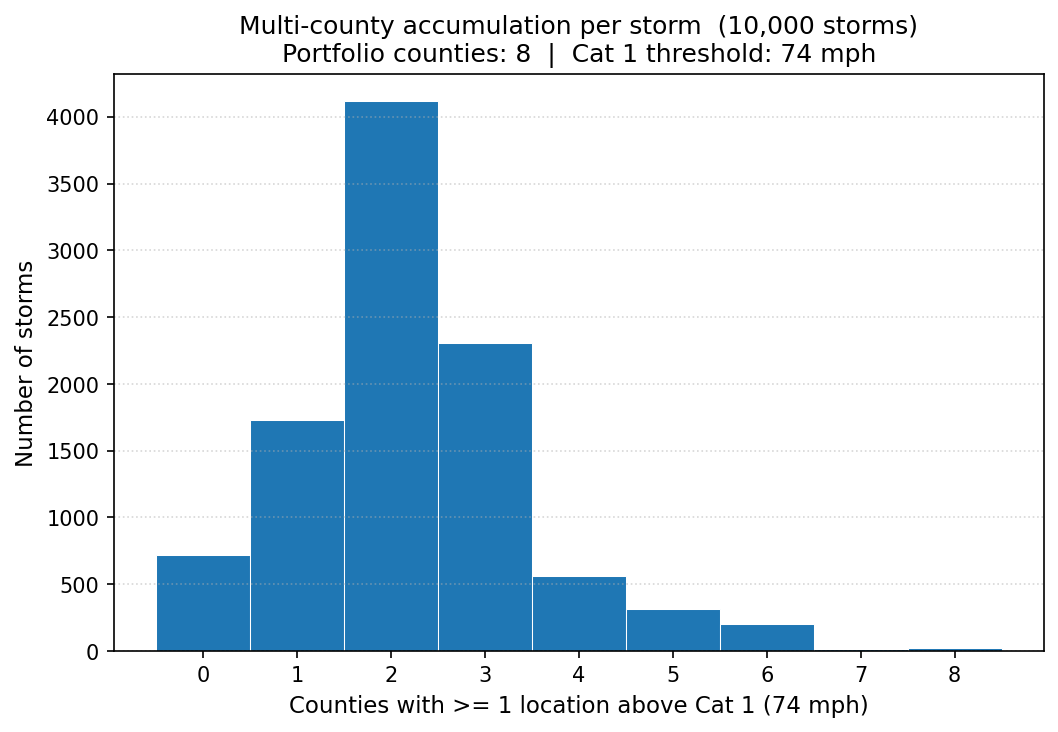
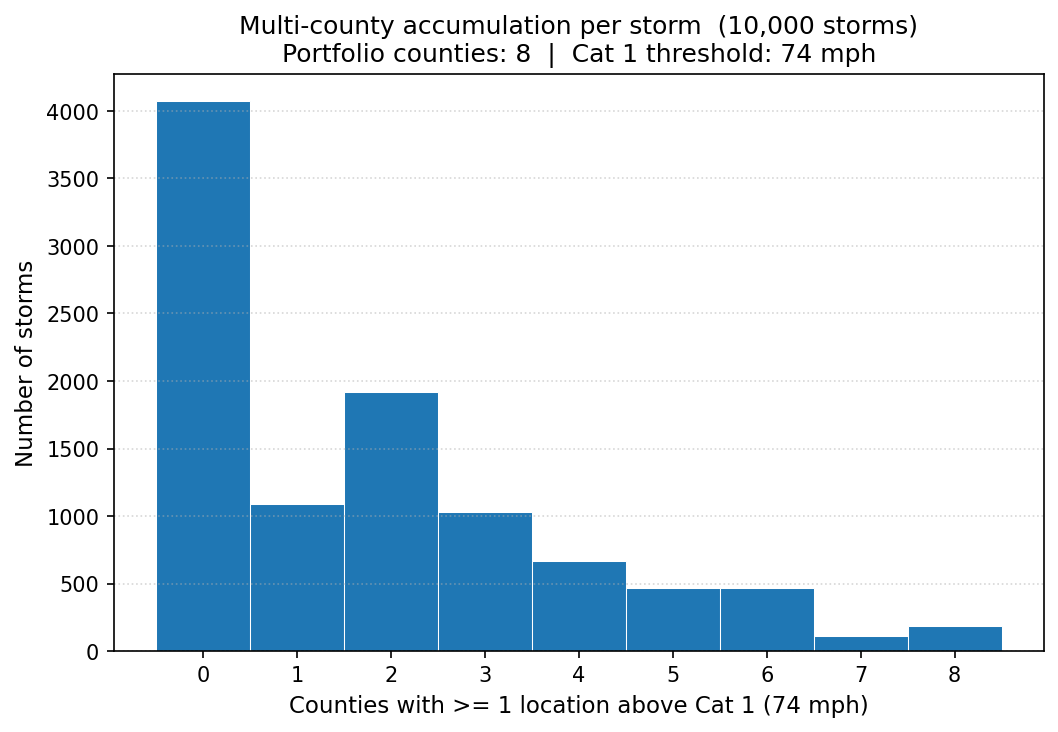
docs: update README to v3 (Phase 2 physics + attribution waterfall)

diff --git a/README.md b/README.md
@@ -4,7 +4,7 @@
 
 The model builds a book of 1,000 insured locations, simulates 100,000 years of stochastic hurricanes as moving wind footprints, translates wind to damage through construction-specific vulnerability curves, applies per-policy financial terms, and prices the effect of an excess-of-loss (XoL) reinsurance tower on the portfolio's tail — reporting the loss distribution **gross and net of reinsurance**.
 
-> **Note on scope.** A learning / portfolio project built to demonstrate the conceptual engine behind production catastrophe models (RMS, Verisk Touchstone, CoreLogic). The *method* follow the conceptual structure of a vendor-model pipeline — exposure, hazard, vulnerability, financial, and reinsurance — not just aggregate loss simulation. In v3, the hazard parameters (frequency, intensity, landfall geography, and storm track) are calibrated to NOAA HURDAT2; vulnerability and financial parameters remain illustrative pending later phases. See [Assumptions](#parameters-and-assumptions) and [Limitations](#limitations).
+> **Note on scope.** A learning / portfolio project built to demonstrate the conceptual engine behind production catastrophe models (RMS, Verisk Touchstone, CoreLogic). The *method* follow the conceptual structure of a vendor-model pipeline — exposure, hazard, vulnerability, financial, and reinsurance — not just aggregate loss simulation. In v3, the hazard is calibrated to NOAA HURDAT2 end-to-end — frequency, intensity, and landfall geography (Phase 1), plus a physical wind field of Holland profiles, intensity-dependent storm sizing, forward-motion asymmetry, and inland decay (Phase 2). Vulnerability and financial parameters remain illustrative pending later phases. See [Assumptions](#parameters-and-assumptions) and [Limitations](#limitations).
 
 ---
 
@@ -24,21 +24,21 @@ The model builds a book of 1,000 insured locations, simulates 100,000 years of s
 
 ## Headline results
 
-A synthetic but plausible book: **1,000 coastal locations, USD 500M total insured value (TIV)**, over 100,000 simulated years.
-
-*The table below reflects the frozen v2.0 model. For the recalibrated v3 numbers and why they changed, see the [Calibration: v2 → v3](#calibration-v2--v3) section.*
+A synthetic but plausible book: **1,000 coastal locations, USD 500M total insured value (TIV)**, over 100,000 simulated years, with a fully calibrated v3 hazard.
 
 | Metric (USD M) | AEP Gross | AEP Net | OEP Gross | OEP Net |
 |---|---:|---:|---:|---:|
-| Average Annual Loss | 10.67 | 9.37 | 9.57 | 8.30 |
-| PML 1-in-100 | 118.1 | 75.9 | 107.7 | 60.0 |
-| PML 1-in-250 | 149.4 | 94.3 | 133.7 | 60.0 |
+| Average Annual Loss | 9.17 | 7.72 | 8.49 | 7.05 |
+| PML 1-in-100 | 122.7 | 70.3 | 113.4 | 60.0 |
+| PML 1-in-250 | 158.7 | 90.8 | 147.1 | 60.0 |
 
 *AEP = Aggregate Exceedance Probability (full annual loss). OEP = Occurrence Exceedance Probability (largest single event of the year). Gross = before reinsurance; Net = after the XoL tower.*
 
-**What the reinsurance tower buys:** gross-to-net PML reduction of **-44.3% / -55.1%** on a per-occurrence basis (1-in-100 / 1-in-250), and **-35.8% / -36.9%** on an aggregate-annual basis.
+These are the **v3 numbers**: a hazard calibrated to HURDAT2 end-to-end — frequency, intensity, and landfall geography (Phase 1), and a physical wind field of Holland profiles, Vickery-Wadhera storm sizing, forward-motion asymmetry, and Kaplan-DeMaria inland decay (Phase 2). The AAL sits at **1.83% of TIV**, in the plausible range for a coastal Florida book. How the model evolved from its illustrative v2.0 baseline — and what each calibration step contributed — is documented in [Calibration: v2 → v3](#calibration-v2--v3).
 
-A detail worth reading off the numbers: the **OEP net flattens at exactly USD 60M at both return periods**. Because the contiguous tower covers every dollar from the 60M retention up to 200M exhaustion, any single event that pierces the programme leaves the insurer with exactly its 60M retention — a clean illustration of how the tower caps per-occurrence net loss. The **AEP net does *not* flatten**, because a bad year can stack several retentions from multiple events, none of which individually triggers the full tower.
+**Two independent validations.** The v3 PMLs (OEP 113.4M / 147.1M at 1-in-100 / 1-in-250) land close to the original v1 parametric reference (100M / 142M) — two entirely different model architectures converging on the same tail. And every component of the v2→v3 change is decomposed in an attribution waterfall whose endpoints reproduce the v2 and v3 totals exactly.
+
+**What the reinsurance tower buys:** gross-to-net PML reduction of **−47.1% / −59.2%** on a per-occurrence basis (1-in-100 / 1-in-250). A detail worth reading off the numbers: the **OEP net flattens at exactly USD 60M at both return periods**. Because the contiguous tower covers every dollar from the 60M retention up to 200M exhaustion, any single event that pierces the programme leaves the insurer with exactly its 60M retention. The **AEP net does *not* flatten**, because a bad year can stack several retentions from multiple events, none of which individually triggers the full tower.
 
 ---
 
@@ -55,7 +55,7 @@ section documents how the headline numbers changed and, more importantly, why.
 |---|---:|---|
 | **v2.0** (frozen) | 10.67M | All hazard parameters illustrative |
 | **v3 intermediate** | 9.35M | + calibrated frequency & intensity |
-| **v3 (current)** | 3.58M | + calibrated landfall geography & track |
+| **v3 Phase 1** | 3.58M | + calibrated landfall geography & track |
 
 The change decomposes into two jumps:
 
@@ -96,6 +96,45 @@ calibration-of-geography). A finer, component-by-component attribution waterfall
 deferred to Phase 2, where per-component configuration switches are built as
 infrastructure the wind-physics comparisons require anyway.
 
+### Phase 2 — physical wind field
+
+Phase 1 calibrated *where, how often, and how intense* storms strike. Phase 2 replaces the illustrative wind field itself — how a storm's wind translates to a footprint over the portfolio — with a calibrated physical chain. Every placeholder from v2 is replaced by a published, sourced component:
+
+| Component | v2 placeholder | v3 physical model |
+|---|---|---|
+| Wind-pressure | — | Δp fitted to CONUS landfalls (Atkinson-Holliday form) |
+| Storm size (Rmax) | uniform(30–55 km) | Vickery & Wadhera (2008), intensity-dependent |
+| Profile shape (B) | — | Vickery & Wadhera (2008), coupled to Rmax |
+| Radial profile | modified Rankine | Holland (1980) gradient-balance, anchored to Vmax |
+| Asymmetry | none | Schwerdt–HAZUS forward-motion correction |
+| Inland decay | 120 km e-folding | Kaplan & DeMaria (1995), coupled to translation speed |
+
+The chain is causal: sampled Vmax drives a central-pressure deficit Δp (via a wind-pressure relationship fitted to Atlantic CONUS landfalls), Δp and latitude drive the storm's size and profile peakedness (Vickery-Wadhera), and those feed the Holland gradient-balance profile. Forward motion then breaks the radial symmetry (right-of-track winds enhanced), and Kaplan-DeMaria decays the wind inland as a function of time since landfall — so a fast storm carries damaging wind further inland than a slow one.
+
+> **A methodological note on anchoring.** The Holland profile is parameterized by Δp, but our intensity calibration is on landfall Vmax (HURDAT2, n=112) — a better-constrained quantity than the WPR-derived Δp (n=85). So the Holland profile supplies the radial *shape*, while Vmax supplies the *amplitude*: the profile is normalized and scaled so its peak equals the sampled Vmax. This is standard practice in production cat models, and it keeps the model's intensity tied to its strongest calibration.
+
+### Attribution waterfall — what each component contributes
+
+Phase 1 deferred a fine-grained, component-by-component attribution to Phase 2, because the wind-physics comparisons required per-component configuration switches as infrastructure anyway. With every component behind a switch (each verified to reproduce the baseline bit-for-bit when off), the full v2→v3 change decomposes cleanly. All runs share seed 42, so the deltas are physics, not Monte Carlo noise.
+
+| Step | AAL (USD M) | Δ AAL | OEP-100 | OEP-250 |
+|---|---:|---:|---:|---:|
+| v2 baseline | 3.58 | — | 58.3 | 84.9 |
+| + Rmax (V&W) | 3.13 | **−0.45** | 47.0 | 67.3 |
+| + Holland & B | 7.58 | **+4.45** | 101.3 | 135.0 |
+| + Asymmetry | 8.32 | **+0.74** | 105.3 | 138.7 |
+| + Decay (K-D) | 9.17 | **+0.86** | 113.4 | 147.1 |
+
+Three findings worth reading off the table:
+
+**The wind profile dominates.** Replacing the Rankine vortex with the Holland gradient-balance field accounts for **~80% of the AAL change** and nearly all of the PML uplift. The v2 Rankine profile decayed too steeply with distance; Holland's physical far-field reaches far more of the portfolio under every storm. This single component — not frequency, not intensity, not geography — is where the v2→v3 hazard difference lives.
+
+**Calibrating storm size *reduces* risk in isolation.** The V&W Rmax, fitted to real storms, produces a more compact core on average than the v2 uniform(30–55 km) placeholder — concentrating wind nearer the centre and reaching fewer portfolio locations. On its own it *lowers* the AAL (−0.45M). This is counterintuitive only until you see that "more realistic" and "higher risk" are not the same thing: calibration removed an inflated placeholder, it did not add hazard.
+
+**The components are sub-additive in the tail.** Run each component alone from the v2 base, sum the isolated effects, and compare to the full combined change: the sum of isolated OEP-250 effects is +82M, but the actual combined change is +62M. The −20M difference is a genuine **interaction term** — Holland's tail inflation is partly contained when it operates on the compact V&W core rather than the inflated placeholder. The model's components amplify each other less than additivity would predict, and that non-linearity is measured, not assumed.
+
+![Attribution waterfall](outputs/waterfall.png)
+
 ---
 
 ## The problem
@@ -110,7 +149,7 @@ The model executes a six-step pipeline (orchestrated by `run_all.py`), each step
 
 **1 - Exposure** — `data/generate_exposure.py` builds 1,000 synthetic coastal homeowner locations across eight hurricane-exposed Florida counties, weighted toward the South-East metro where real exposure concentrates. Each location carries coordinates, TIV, construction class, occupancy, and a Florida-style hurricane deductible tier.
 
-**2 - Hazard** — `model/hazard.py` generates a stochastic catalogue of **moving-track** storms. Frequency is Poisson; intensity follows a Saffir-Simpson distribution; each storm makes landfall along a coastline polyline and propagates inland under a modified Rankine vortex wind field, giving every location the maximum sustained wind it experienced during the storm's passage.
+**2 - Hazard** — `model/hazard.py` generates a stochastic catalogue of **moving-track** storms. Frequency is Poisson (λ calibrated via an AMO-conditioned GLM); intensity follows a truncated-lognormal fitted to HURDAT2 landfall Vmax; landfall geography is a KDE over the calibrated coastline. Each storm's wind field is **physical**: a central-pressure deficit drives Vickery-Wadhera storm sizing (Rmax) and profile peakedness (B), feeding a Holland (1980) gradient-balance profile, with forward-motion asymmetry and Kaplan-DeMaria inland decay. Every location receives the maximum sustained wind it experienced during the storm's passage.
 
 **3 - Vulnerability** — `model/vulnerability.py` maps wind to a damage ratio through HAZUS-anchored curves, **differentiated by construction type**, operating in 3-second peak gust (with a sustained-to-gust conversion).
 
@@ -122,13 +161,13 @@ The model executes a six-step pipeline (orchestrated by `run_all.py`), each step
 
 ### Reference parametric model (v1)
 
-The repository also retains the original **portfolio-aggregate** model — `model/aggregate_loss.py`, `model/ep_curve.py`, `model/sanity_check.py` — which modelled the same portfolio with a single compound-Poisson process: `N ~ Poisson(lambda)` events per year, each drawing a portfolio loss from a Lognormal severity. This is **not** the primary model; it is kept as an independent validation anchor. Reassuringly, the v2 spatial engine reproduces v1's Average Annual Loss to within ~2% (10.7M vs 10.5M) by an entirely different mechanism — strong evidence the location-level chain is assembled correctly.
+The repository also retains the original **portfolio-aggregate** model — `model/aggregate_loss.py`, `model/ep_curve.py`, `model/sanity_check.py` — which modelled the same portfolio with a single compound-Poisson process: `N ~ Poisson(lambda)` events per year, each drawing a portfolio loss from a Lognormal severity. This is **not** the primary model; it is kept as an independent validation anchor. Reassuringly, the v2 spatial engine reproduced v1's Average Annual Loss to within ~2% (10.7M vs 10.5M) by an entirely different mechanism, and the calibrated v3 model independently lands close to v1's tail PMLs (OEP 113.4M / 147.1M vs 100M / 142M at 1-in-100 / 1-in-250) — two architectures converging on the same risk by entirely different routes, strong evidence the location-level chain is assembled correctly.
 
 ---
 
 ## Parameters and assumptions
 
-All parameters are **illustrative** — plausible and chosen to make the dynamics visible, not estimated from data.
+The **hazard** parameters below are calibrated to HURDAT2 (v3, Phases 1–2). The **exposure, vulnerability, and reinsurance** parameters remain illustrative — plausible and chosen to make the dynamics visible, pending later phases.
 
 **Exposure**
 
@@ -140,16 +179,19 @@ All parameters are **illustrative** — plausible and chosen to make the dynamic
 | Construction mix | Masonry 509 - Wood Frame 240 - Reinforced Concrete 172 - Manufactured 79 |
 | Hurricane deductibles | 2% / 5% / 10% of TIV (per occurrence) |
 
-**Hazard**
+**Hazard** (v3 — calibrated to HURDAT2; see [Calibration](#calibration-v2--v3))
 
-| Parameter | Value |
-|---|---|
-| Frequency | `N ~ Poisson(lambda = 0.7)` storms/year |
-| Intensity | Saffir-Simpson category weights (Cat1 0.40 -> Cat5 0.04) |
-| Landfall | sampled along a FL coastline polyline, SE/SW segment weighting |
-| Radius of max winds | 30-55 km |
-| Track heading | +/-45 deg of north, inland filling with ~120 km e-folding decay |
-| Wind field | modified Rankine vortex; per-event max sustained wind per location |
+| Parameter | Value | Source |
+|---|---|---|
+| Frequency | `N ~ Poisson(λ = 0.6576)` storms/year | AMO-conditioned Poisson GLM, satellite era |
+| Intensity | truncated-lognormal on landfall Vmax (μ_log 4.4362, σ_log 0.2518) | MLE fit, HURDAT2 1851–2024 (n=112) |
+| Landfall geography | KDE over arc-length of the TIGER coastline | HURDAT2 CONUS landfalls |
+| Wind-pressure | Δp = a·Vmax^b (b≈1.72) | fitted to CONUS satellite-era landfalls (n=85) |
+| Storm size (Rmax) | intensity-dependent, ln(Rmax) = f(Δp², lat) | Vickery & Wadhera (2008) |
+| Profile shape (B) | B = f(Rmax, lat), coupled to Rmax | Vickery & Wadhera (2008) |
+| Radial profile | Holland (1980) gradient-balance, anchored to Vmax | Holland (1980) |
+| Asymmetry | forward-motion, a·Vt right-of-track enhancement | Schwerdt et al. (1979) / HAZUS |
+| Inland decay | exponential in time since landfall, coupled to Vt | Kaplan & DeMaria (1995) |
 
 **Vulnerability** (3-second gust, midpoint = gust at 50% damage)
 
@@ -191,11 +233,11 @@ The `-sigma^2/2` correction offsets the upward pull of the tail so the arithmeti
 
 The headline table above is the model's output. Three things the numbers tell:
 
-**The value of reinsurance.** The gap between the gross and net curves is what the XoL programme buys. On a per-occurrence basis it removes 48M from the 1-in-100 single-event loss (107.7M -> 60.0M) and 73.7M from the 1-in-250 (133.7M -> 60.0M). The expected annual recovery — the technical floor of the programme's premium — is about USD 1.29M/year, concentrated in Layer 1 (which triggers in ~3.9% of years) and tapering to Layer 3 (~0.2% of years).
+**The value of reinsurance.** The gap between the gross and net curves is what the XoL programme buys. On a per-occurrence basis it removes 53.4M from the 1-in-100 single-event loss (113.4M -> 60.0M) and 87.1M from the 1-in-250 (147.1M -> 60.0M). The expected annual recovery — the technical floor of the programme's premium — is about USD 1.45M/year, concentrated in Layer 1 (which triggers in ~3.8% of years) and tapering to Layer 3 (~0.4% of years).
 
-**Vulnerability drives loss concentration.** Average Annual Loss by construction departs sharply from the share of value: Manufactured homes hold 8.7% of TIV but contribute **32.4%** of AAL (3.7x), while Reinforced Concrete holds 15.2% of TIV and just 3.5% of loss (0.2x). This is the construction-differentiated vulnerability working as intended.
+**Vulnerability drives loss concentration.** Average Annual Loss by construction departs sharply from the share of value: Manufactured homes hold 8.7% of TIV but contribute **34.0%** of AAL (3.9x), while Reinforced Concrete holds 15.2% of TIV and just 2.8% of loss (0.2x). This is the construction-differentiated vulnerability working as intended.
 
-**Geography drives the tail.** Because a single storm sweeps a coherent swath of coast, losses accumulate across the stacked South-East counties (Miami-Dade, Broward, Palm Beach) — the spatial correlation that fattens the tail and justifies modelling at the location level rather than in aggregate.
+**Geography drives the tail.** Calibrated landfall geography spreads storms along the whole coast — most of the time a storm misses the portfolio's concentrated South-East footprint. But when one *does* strike there, a single system sweeps a coherent swath across the stacked South-East counties (Miami-Dade, Broward, Palm Beach) at once. It is this spatial *correlation on the events that hit* — not their frequency — that fattens the tail and justifies modelling at the location level rather than in aggregate.
 
 Generated figures (in `outputs/`):
 
@@ -207,6 +249,7 @@ Generated figures (in `outputs/`):
 | `vulnerability_curves.png` | The four construction-type damage curves |
 | `landfall_distribution.png` | 10,000 sampled landfalls along the coastline |
 | `counties_hit_per_event.png` | Multi-county accumulation per storm |
+| `waterfall.png` | v2→v3 physics attribution — each component's contribution to AAL and PMLs |
 
 ---
 
@@ -214,9 +257,9 @@ Generated figures (in `outputs/`):
 
 Each module is checked against independent references, not just "does it run":
 
-- **Hazard** — eye-of-calm at the storm centre, wind peaks at the radius of max winds, monotonic decay outward; mean storms/year converges to lambda; Cat-3-plus share ~ 0.35; high-wind locations form coherent geographic clusters (10,000-storm diagnostics: 35.8% of landfalls in the SE corridor, 75.5% of storms strike 2+ counties).
+- **Hazard** — eye-of-calm at the storm centre, wind peaks at the radius of max winds, monotonic decay outward; mean storms/year converges to λ=0.6576; Cat-3-plus share ~0.34 (continuous Vmax, vs ~0.35 theoretical); high-wind locations form coherent geographic clusters. Spatial diagnostics over a 10,000-storm catalogue reflect the calibrated v3 geography: 9.2% of landfalls fall in the narrow SE-Atlantic corridor (down from the v2 placeholder's artificial concentration there — the calibrated KDE spreads storms across the whole coast, including the panhandle where the portfolio has no exposure), and 48.4% of storms that form still strike 2+ portfolio counties above Cat 1, confirming the spatial correlation that drives tail accumulation.
 - **Vulnerability** — curves monotonic, bounded by their caps, fragility hierarchy preserved at every wind speed, damage zero below threshold, gust conversion sanity-checked.
-- **Financial loss** — gross <= ground-up everywhere; the annual table holds exactly N years (including loss-free years); each year's max single event <= its aggregate; share of loss-free years >= the e^(-lambda) = 49.66% Poisson floor (51.0% simulated).
+- **Financial loss** — gross <= ground-up everywhere; the annual table holds exactly N years (including loss-free years); each year's max single event <= its aggregate; share of loss-free years >= the e^(-λ) = 51.8% Poisson floor (62.9% simulated, λ=0.6576).
 - **Reinsurance** — net <= gross always; recovery bounded in [0, tower capacity]; zero recovery below the first attachment; full recovery at exhaustion.
 
 The **v1 reference model** carries its own three classical anchors (frequency -> lambda, AAL -> lambda*E[X], zero-loss years -> e^(-lambda)), now serving as the cross-check on the aggregate baseline.
@@ -225,13 +268,12 @@ The **v1 reference model** carries its own three classical anchors (frequency ->
 
 ## Limitations
 
-Stated plainly so results are read in context. Several limitations of the v1 aggregate model are *resolved* in v2 (location-level resolution, modelled deductibles, modelled reinsurance, multi-county correlation). What remains:
+Stated plainly so results are read in context. The v2→v3 work resolved several earlier limitations — calibrated hazard parameters (Phase 1) and a physical wind field with intensity-dependent sizing, forward-motion asymmetry, and inland decay (Phase 2). What remains:
 
-- **Single lambda, no clustering.** Storm frequency has no over-dispersion or seasonal clustering, which understates the aggregate (AEP) tail.
+- **Single λ, no clustering.** Storm frequency has no over-dispersion or seasonal clustering, which understates the aggregate (AEP) tail.
 - **No secondary uncertainty.** Damage ratios are deterministic given wind and construction — no variance around the mean curve.
 - **Single peril.** Wind only; no storm surge, inland flood, or demand surge.
-- **Simplified track physics.** Generic +/-45 deg heading, constant Rmax, no forward-speed asymmetry.
-- **Partially calibrated parameters.** The portfolio and the vulnerability/financial parameters are synthetic; the hazard parameters are calibrated to HURDAT2 (v3, Phase 1).
+- **Illustrative vulnerability & financials.** The hazard is calibrated to HURDAT2; the portfolio, vulnerability curves, and financial terms remain synthetic.
 - **Reinsurance structure.** No reinstatements, no co-participation, no quota share — the net loss is flat at the retention by design.
 
 Each is a natural extension rather than a flaw.
@@ -285,7 +327,7 @@ hurricane-cat-model/
 |   |-- aggregate_loss.py        # v1 reference - compound-Poisson aggregate
 |   |-- ep_curve.py              # v1 reference - AEP/OEP curves
 |   `-- sanity_check.py          # v1 reference - Poisson validation
-|-- outputs/                     # generated plots (7 PNGs)
+|-- outputs/                     # generated plots (pipeline + calibration figures)
 `-- results/                     # generated CSVs (gitignored, reproducible)
     `-- summary_metrics.csv      # headline metrics table (versioned)
 ```